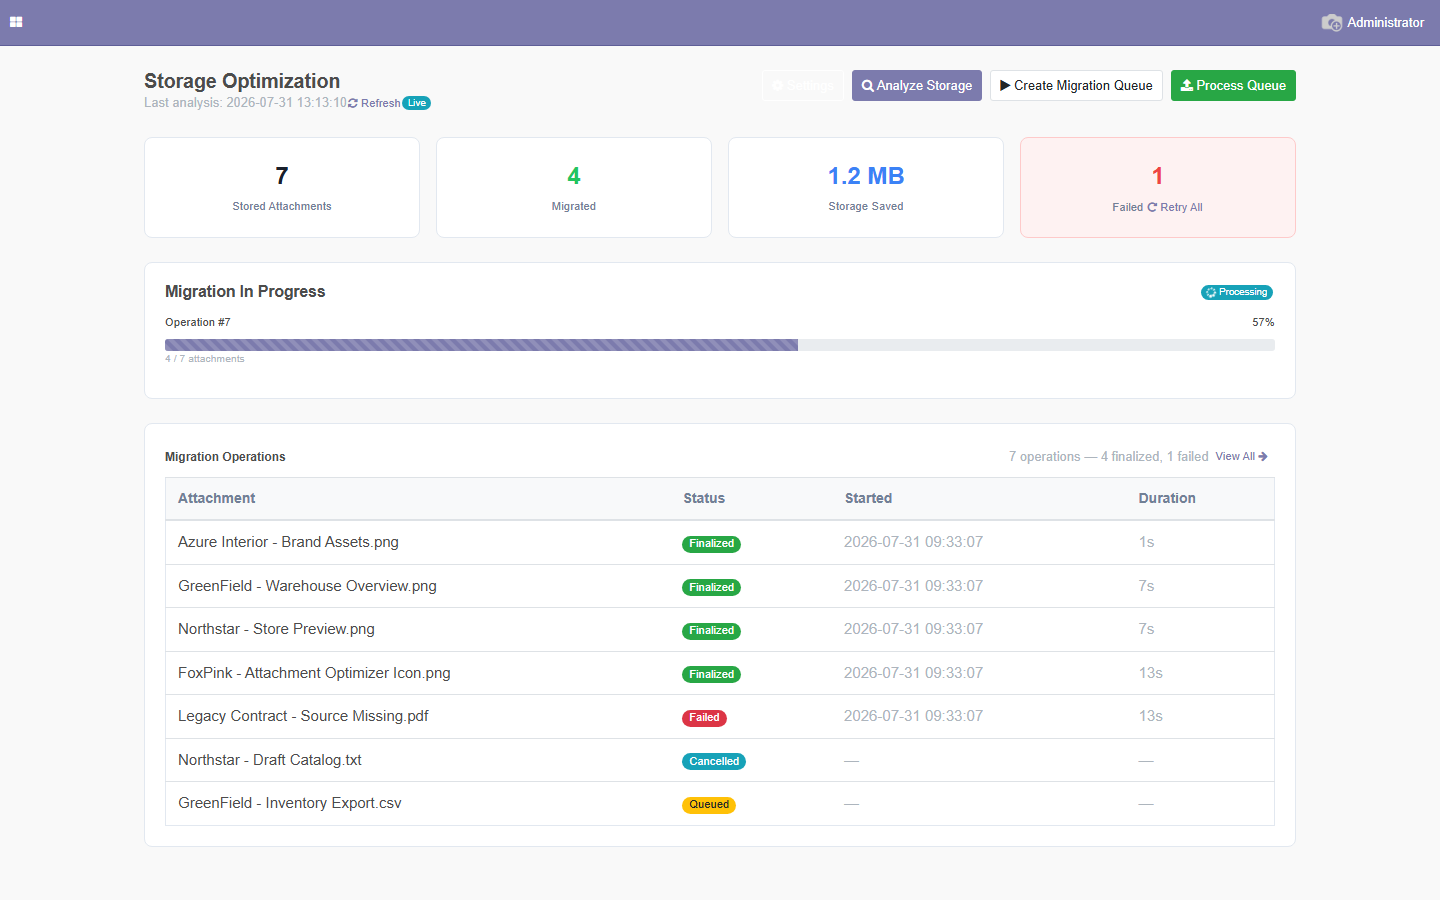
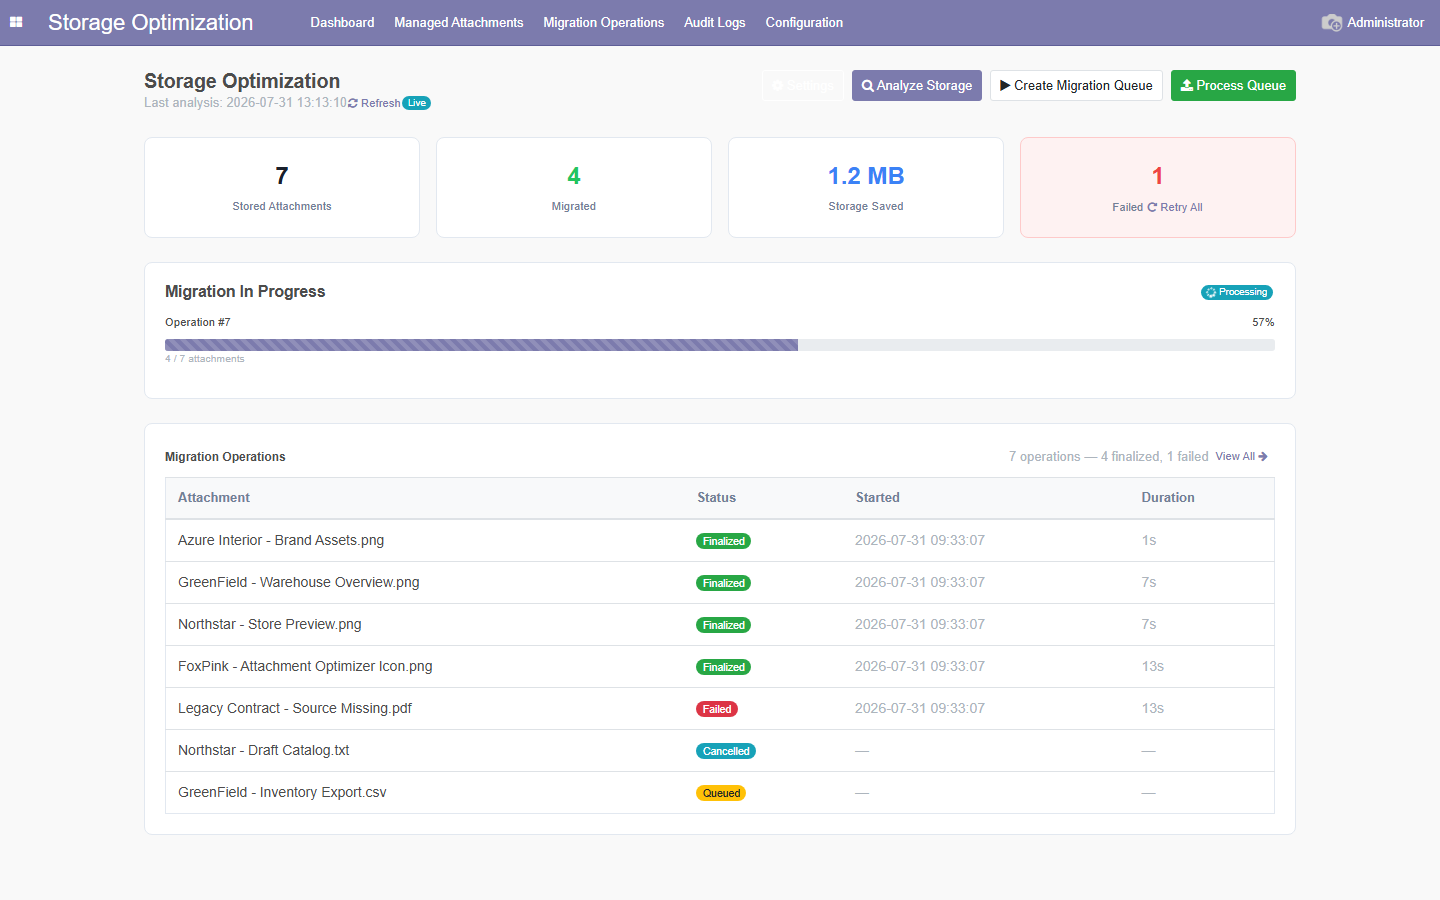
[14.0] Match desktop dashboard capture and typography

diff --git a/attachment_optimizer/static/src/components/dashboard/dashboard.scss b/attachment_optimizer/static/src/components/dashboard/dashboard.scss
@@ -200,7 +200,7 @@ html .o_web_client > .o_action_manager {
     border-radius: 6px;
 
     th {
-        font-size: 14px;
+        font-size: 13px;
         font-weight: 600;
         color: #718096;
         background: #f8f9fa;
@@ -210,7 +210,7 @@ html .o_web_client > .o_action_manager {
 
     td {
         padding: 10px 12px;
-        font-size: 15px;
+        font-size: 14px;
         vertical-align: middle;
     }
 }
